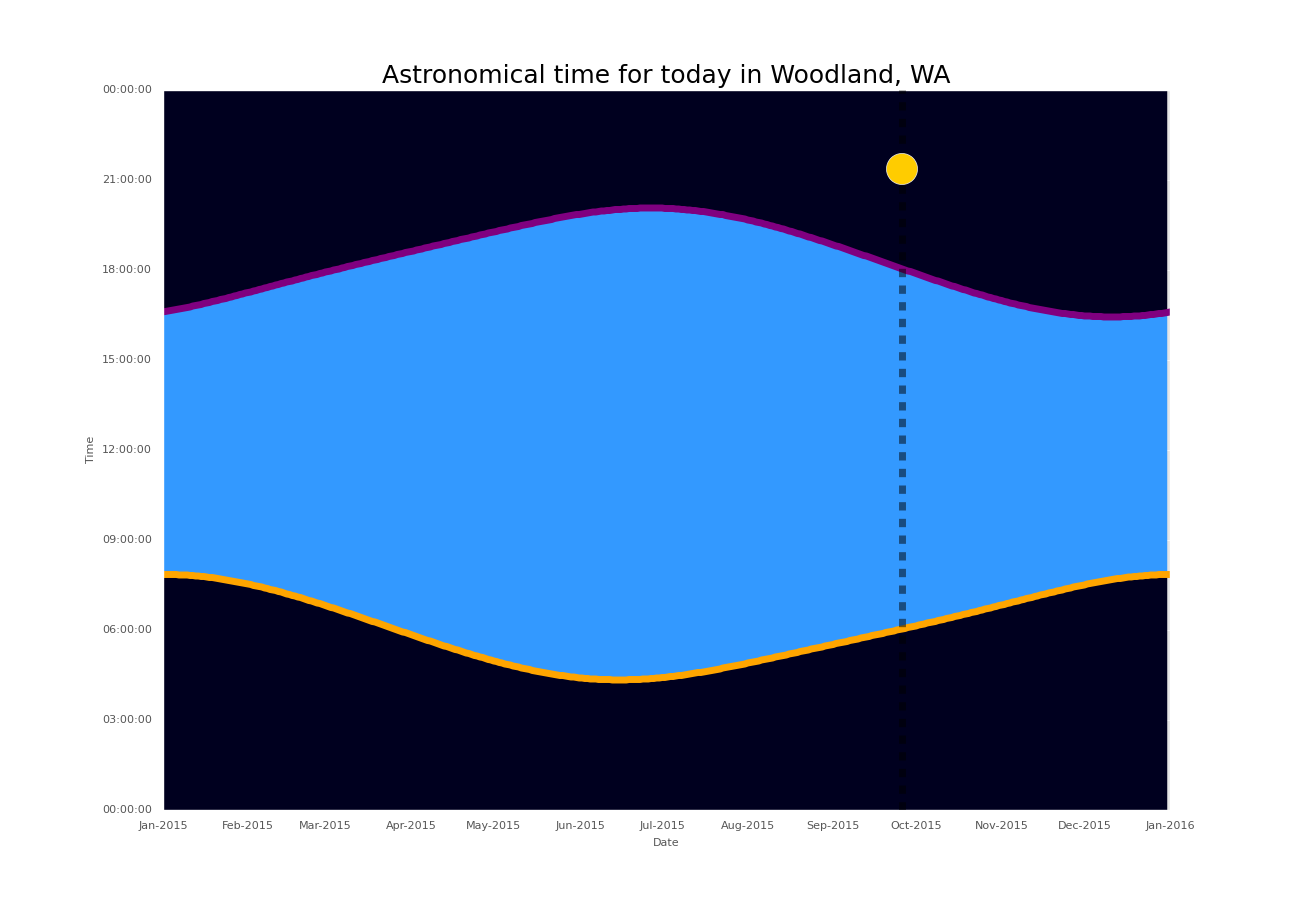
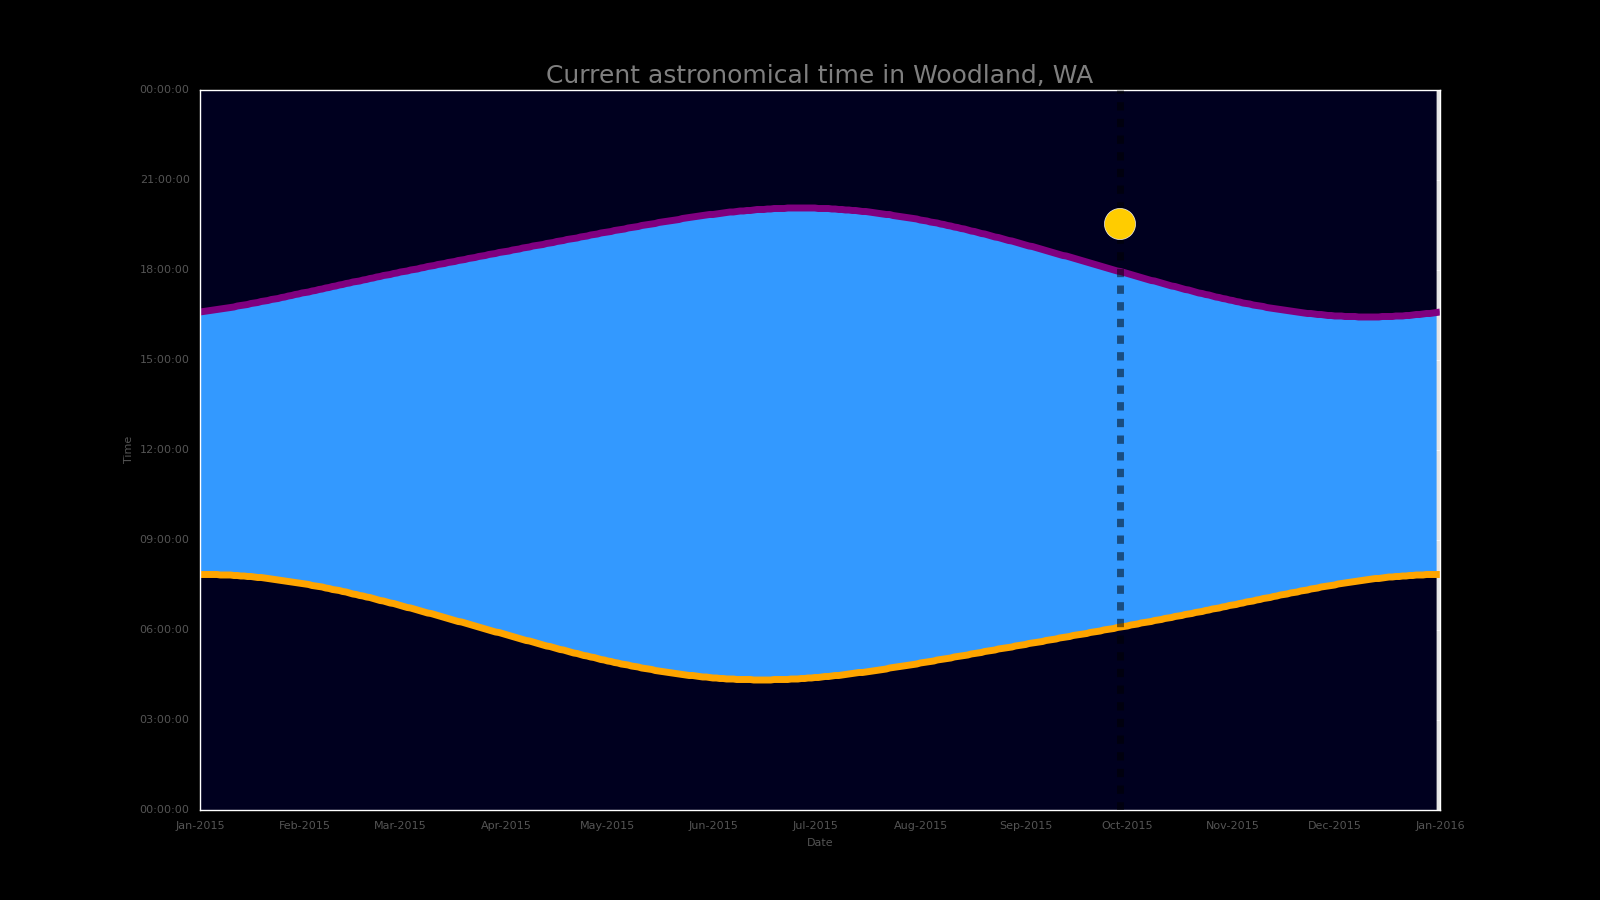
Desktop image change over time via chart
Live. Stats.

diff --git a/astro_desktop_img.py b/astro_desktop_img.py
@@ -1,0 +1,189 @@
+#!/usr/bin/python
+
+# SET I/O
+inputs = {'astro' : 'C:/Users/Nathan/Dropbox/GitHub/astro/inputs'}
+outputs = {'astro' : 'C:/Users/Nathan/Dropbox/GitHub/astro/outputs'}
+
+# LIBRARIES
+import os
+import time
+import datetime as dt
+import numpy as np
+import matplotlib as matplotlib
+import matplotlib.pyplot as plt 
+import pandas as pd 
+import matplotlib.dates as mdates
+from matplotlib.dates import date2num, num2date
+from matplotlib import ticker
+from pandas import DataFrame, Series, ExcelWriter
+from datetime import datetime
+from matplotlib.backends.backend_pdf import PdfPages
+from matplotlib.offsetbox import TextArea, DrawingArea, OffsetImage, \
+     AnnotationBbox
+from matplotlib.cbook import get_sample_data
+from matplotlib.ticker import FuncFormatter
+pd.options.mode.chained_assignment = None
+
+# SCRIPT SUMMARY
+print("\n\n\n######################################################\n")
+if '__file__' in globals():
+    print("CURRENT SCRIPT:\n" + str(os.path.realpath(__file__)) + "\n")
+print("INPUT FOLDERS:")
+for key in inputs:
+    print(inputs[key])
+print("\nOUTPUT FOLDERS:")
+for key in outputs:
+    print(outputs[key])
+print("\n######################################################\n")
+
+# PARAMS
+difference_from_utc_standard = -8
+filename = 'Sunrise Sunset-2015.txt'
+year = 2015
+firstdata = 9
+maxdays = 31
+start = dt.datetime(year,1,1,0,0)
+columns = ['period','month','day','event','rawtime','min','hour','time','test']
+
+## NOTE: Input files must be named in the format: name + "-" + date("YYYY-MM-DD")
+# FIND OPPORTUNITY DATA
+os.chdir(inputs['astro'])
+
+# Using the newer with construct to close the file automatically.
+with open(filename) as f:
+    data = f.readlines()
+
+# cut off extra crap
+raw = data[firstdata:firstdata+maxdays]
+    
+test = raw
+
+data = pd.DataFrame(columns=columns)
+temp = pd.DataFrame([[dt.datetime(year,1,1),0,0,'a','a',0,0,dt.datetime(year,1,1,0,0),'a']], columns=columns)
+
+start_space = [4,5, #jan
+               6,5, #feb
+               6,5, #mar
+               6,5, #apr
+               6,5, #may
+               6,5, #jun
+               6,5, #jul
+               6,5, #aug
+               6,5, #sep
+               6,5, #oct
+               6,5, #nov
+               6,5] #dec
+
+events = ['01_r','01_s',
+          '02_r','02_s',
+          '03_r','03_s',
+          '04_r','04_s',
+          '05_r','05_s',
+          '06_r','06_s',
+          '07_r','07_s',
+          '08_r','08_s',
+          '09_r','09_s',
+          '10_r','10_s',
+          '11_r','11_s',
+          '12_r','12_s']
+
+
+for i in range(0,len(test)):
+    # find day
+    start = 0
+    end = 2
+    temp['day'] = raw[i][start:end]
+    # find times
+    for j in range(0,len(events)):
+        temp['month'] = events[j].split("_")[0]
+        temp['event'] = events[j].split("_")[1]
+        start += start_space[j]
+        end = start + 4
+        temp['rawtime'] = raw[i][start:end]
+        temp['period'] = temp['month'] + '_' +  temp['day']
+        data = data.append(temp, ignore_index=True)
+
+for i in range(0,len(data)):
+    data['test'][i] = data['rawtime'][i].count(' ')
+        
+#remove days that don't exist
+data = data[(data['test'] < 1)].reset_index(drop=True)
+
+for i in range(0,len(data)):
+    data['hour'][i] = data['rawtime'][i][0:2]
+    data['min'][i] = data['rawtime'][i][2:4]
+    data['time'][i] = dt.datetime(year,1,2,int(data['hour'][i]),int(data['min'][i]))
+    data['period'][i] = dt.datetime(year,int(data['month'][i]),int(data['day'][i]))
+
+s_rise = data[data['event'] == 'r'].sort('period').reset_index(drop=True)
+s_set = data[data['event'] == 's'].sort('period').reset_index(drop=True)
+
+for i in range(0,len(s_rise['time'])):
+    s_rise['time'][i] = s_rise['time'][i] + dt.timedelta(hours = difference_from_utc_standard)
+    s_rise['time'][i] = s_rise['time'][i].replace(day=1)
+    s_set['time'][i] = s_set['time'][i] + dt.timedelta(hours = difference_from_utc_standard)
+    s_set['time'][i] = s_set['time'][i].replace(day=1)
+
+os.chdir(outputs['astro'])
+
+#PLOTTING
+import ctypes
+
+while (1==1):
+  # Set up figure
+  edgecolor='None'
+  linewidth=5
+  sun_area = 500
+  plt.style.use('ggplot')
+  matplotlib.rc('xtick', labelsize=8) 
+  matplotlib.rc('ytick', labelsize=8) 
+  fig, ax = plt.subplots(nrows = 1, ncols = 1, figsize=(16,9))
+
+  xr = list(pd.to_datetime(s_rise['period']))
+  sr = list(pd.to_datetime(s_rise['time']))
+  xs = list(pd.to_datetime(s_set['period']))
+  ss = list(pd.to_datetime(s_set['time']))
+
+  bottom = dt.datetime(year,1,1,0,0)
+  top = dt.datetime(year,1,2,0,0)
+  start = dt.datetime(year,1,1,0,0)
+  end = dt.datetime(year+1,1,1,0,0)
+  now = dt.datetime.now()
+
+  #sunrise
+  ax.plot(xr,sr, color = 'orange', label='sunrise', linewidth = linewidth)
+  ax.fill_between(xr,bottom,sr, facecolor = '#00001F', edgecolor = edgecolor)
+
+  #sunset
+  ax.plot(xs,ss, color = 'purple', label='sunset', linewidth = linewidth)
+  ax.fill_between(xs,ss,top, facecolor = '#00001F', edgecolor = edgecolor)
+
+  #daytime
+  ax.fill_between(xs,sr,ss, facecolor = '#3399FF', edgecolor = edgecolor)
+
+  #today
+  ax.axvline(x=dt.datetime.now(), linewidth=linewidth, ls = '--', color='k', label = 'today', alpha = .5, zorder=998)
+
+  curr_hour = now.hour
+  curr_min = now.minute
+
+  ax.scatter(now, dt.datetime(year,1,1,curr_hour,curr_min), s=sun_area, c='#FFCC00', alpha=1, zorder=999, label = 'sun location')
+
+
+
+  # Style Customization
+  ax.set_title("Current astronomical time in Woodland, WA" , fontsize=18, color='grey')
+  ax.set_ylabel("Time", fontsize=8)
+  ax.set_xlabel("Date", fontsize=8)
+  ax.xaxis.set_major_locator(mdates.MonthLocator())
+  ax.xaxis.set_major_formatter(mdates.DateFormatter('%b-%Y'))
+  ax.tick_params( axis='both', which ='both', bottom='off', top ='off', left='off', right='off')
+  ax.set_ylim([bottom, top])
+  ax.set_xlim([start, end])
+
+  plt.savefig('current-astro-time', facecolor='black')
+  plt.close(fig)
+  SPI_SETDESKWALLPAPER = 20 
+  ctypes.windll.user32.SystemParametersInfoA(SPI_SETDESKWALLPAPER, 0, "C:/Users/Nathan/Dropbox/GitHub/astro/outputs/current-astro-time.png" , 0)
+
+  time.sleep(60)
